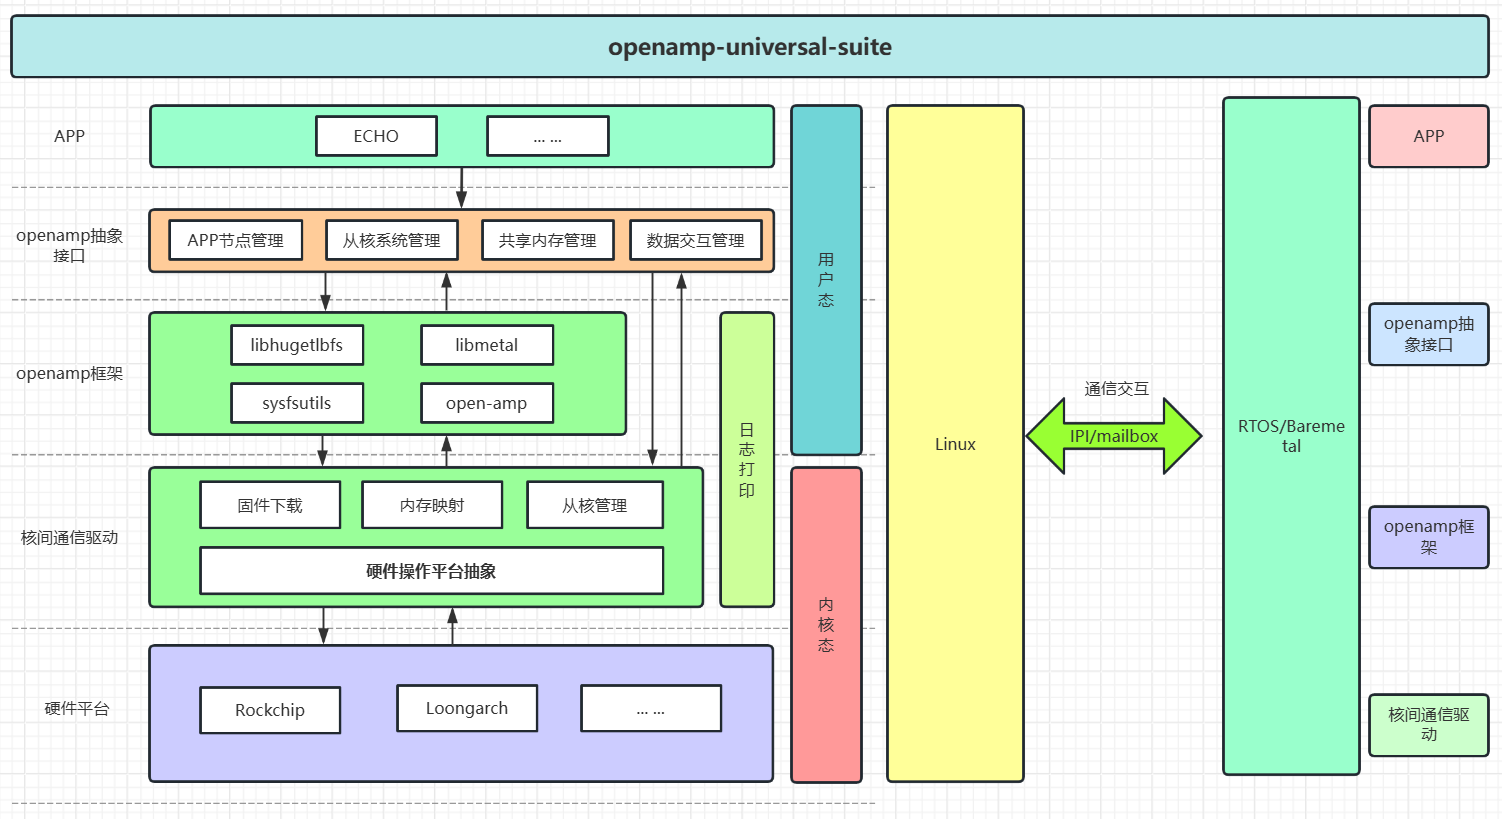
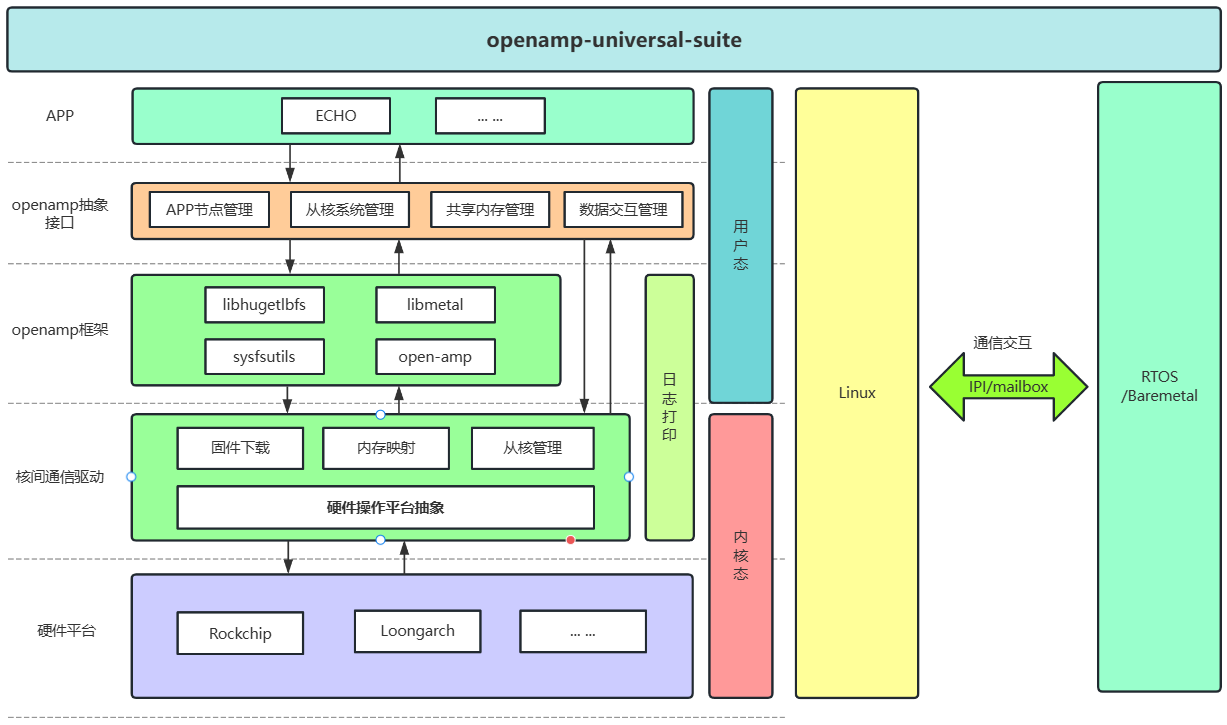
【更新】添加架构图

diff --git a/README.md b/README.md
@@ -1,6 +1,6 @@
 # openamp-universal-suite
 
-一个通用的 OpenAMP linux异构部署方案，旨在简化和加速异构多核系统的开发与集成。
+一种通用的 OpenAMP 异构部署方案，旨在简化和加速异构多核系统的开发与集成。
 
 ---
 
@@ -15,6 +15,8 @@
 ## 方案架构图
 
 ![image-20250425001128218](./image/image.png)
+
+![image-20250425001128218](./image/image1.png)
 
 ## 方案特性
 
